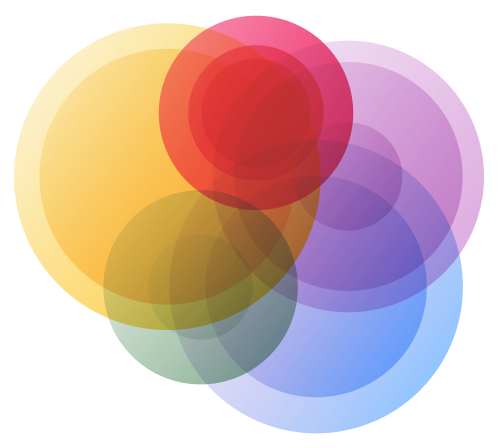
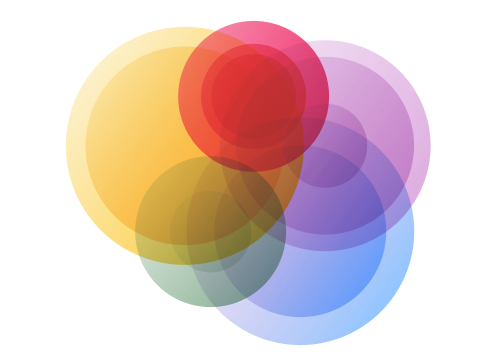
Clean up images in strategies

diff --git a/scss/_layout.scss b/scss/_layout.scss
@@ -1246,8 +1246,7 @@ svg {
 	}
 
 	.strategies-intro__left img {
-		width: 200px;
-		margin-right: 50px;
+		width: 250px;
 	}
 
 	.strategy-details__columns {

diff --git a/swap_labeling_content.py b/swap_labeling_content.py
@@ -1,0 +1,110 @@
+#!/usr/bin/env python3
+
+import json
+import glob
+import os
+
+def swap_labeling_content(file_path):
+    """Swap the key insight and image in the labeling section."""
+    print(f"Processing {os.path.basename(file_path)}...")
+    
+    try:
+        with open(file_path, 'r', encoding='utf-8') as f:
+            data = json.load(f)
+        
+        # Find the labeling section
+        labeling_section = None
+        reflecting = data.get('text', {}).get('reflecting', {})
+        
+        # Look in sub_sections of reflecting
+        for section in reflecting.get('sub_sections', []):
+            if section.get('id') == 'labeling':
+                labeling_section = section
+                break
+        
+        if not labeling_section:
+            print(f"✗ No labeling section found in {os.path.basename(file_path)}")
+            return False
+        
+        paragraphs = labeling_section.get('paragraphs', [])
+        if len(paragraphs) < 2:
+            print(f"✗ Not enough paragraphs in labeling section in {os.path.basename(file_path)}")
+            return False
+        
+        # Get the first and second paragraphs
+        first_paragraph = paragraphs[0]
+        second_paragraph = paragraphs[1]
+        
+        # Extract the content to swap
+        image_from_first = first_paragraph.get('image')
+        insight_from_second = second_paragraph.get('insight')
+        insight_image_from_second = second_paragraph.get('insight_image')
+        
+        if not image_from_first or not insight_from_second:
+            print(f"✗ Missing expected properties in {os.path.basename(file_path)}")
+            print(f"   First paragraph has image: {bool(image_from_first)}")
+            print(f"   Second paragraph has insight: {bool(insight_from_second)}")
+            return False
+        
+        # Perform the swap
+        # Remove image from first paragraph
+        if 'image' in first_paragraph:
+            del first_paragraph['image']
+        
+        # Add insight and insight_image to first paragraph
+        first_paragraph['insight'] = insight_from_second
+        if insight_image_from_second:
+            first_paragraph['insight_image'] = insight_image_from_second
+        
+        # Remove insight and insight_image from second paragraph
+        if 'insight' in second_paragraph:
+            del second_paragraph['insight']
+        if 'insight_image' in second_paragraph:
+            del second_paragraph['insight_image']
+        
+        # Add image to second paragraph
+        second_paragraph['image'] = image_from_first
+        
+        # Write the updated data back to the file
+        with open(file_path, 'w', encoding='utf-8') as f:
+            json.dump(data, f, indent=2, ensure_ascii=False)
+        
+        print(f"✓ Successfully swapped content in {os.path.basename(file_path)}")
+        return True
+        
+    except Exception as e:
+        print(f"✗ Error processing {file_path}: {e}")
+        return False
+
+def main():
+    """Main function to process all strategies JSON files."""
+    print("Swapping key insight and image in labeling section across all language files...\n")
+    
+    # Find all strategies JSON files
+    strategies_pattern = "/Users/jjs/Documents/Business/Atlas_of_Emotions/atlas-of-emotions-1/static/strings/langs/strategies.*.json"
+    strategies_files = glob.glob(strategies_pattern)
+    
+    if not strategies_files:
+        print("No strategies JSON files found!")
+        return
+    
+    print(f"Found {len(strategies_files)} strategies files to process:")
+    for file in strategies_files:
+        print(f"  - {os.path.basename(file)}")
+    print()
+    
+    # Process each file
+    success_count = 0
+    for file_path in strategies_files:
+        if swap_labeling_content(file_path):
+            success_count += 1
+    
+    print(f"\nCompleted! Successfully processed {success_count}/{len(strategies_files)} files.")
+    
+    if success_count == len(strategies_files):
+        print("All labeling sections have been updated with swapped content.")
+    else:
+        print("Some files had errors. Please check the output above.")
+
+if __name__ == "__main__":
+    main()
